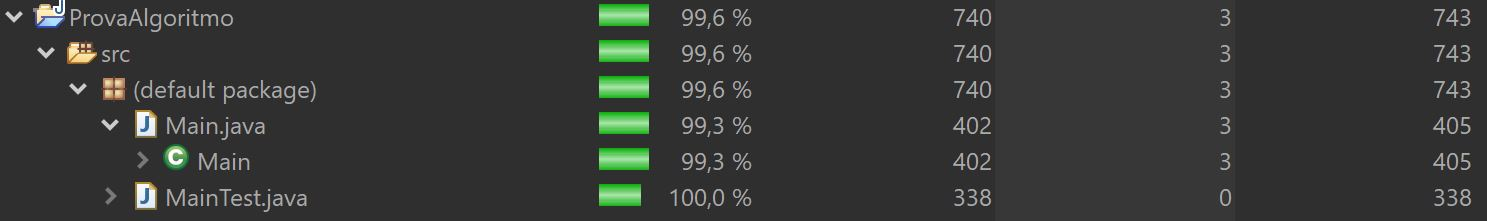
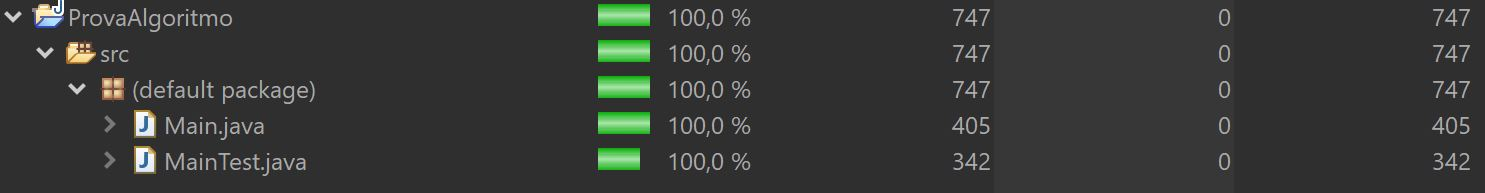
100% Junit

diff --git a/TestAlgoritmo/src/MainTest.java b/TestAlgoritmo/src/MainTest.java
@@ -8,6 +8,8 @@ class MainTest {
 
 	@Test
 	void testAlgoritmo() {
+		Main m = new Main();
+		
 		ArrayList<Integer> lista = new ArrayList<Integer>();
 		ArrayList<ArrayList<Integer>> risposta = new ArrayList<ArrayList<Integer>>();
 		ArrayList<Integer> squadra = new ArrayList<Integer>();
